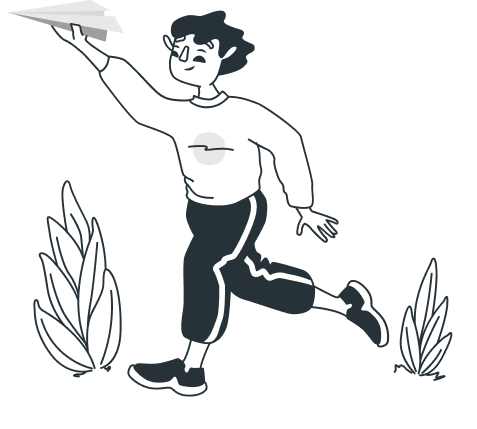
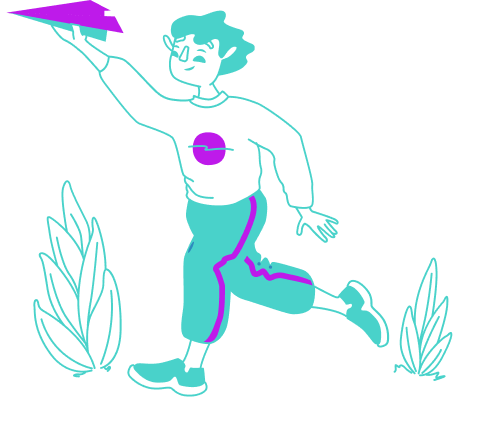
changed images and titles color

diff --git a/src/App.css b/src/App.css
@@ -85,7 +85,7 @@ body {
 	top: 1900px;
 	right: 0;
 }
-.App.dark .about__info span {
+.about__info span {
 	color: #BF17EA;
 }
 .App.dark header {
@@ -111,29 +111,49 @@ body {
 .App.dark .footer__logo {
 	color: white;
 }
-.Add.dark header button {
-	color: white;
-}
 .App.dark header .header__login,
 .App.dark header .header__theme {
     background-color: unset;
 }
-.App.dark h1 {
+ h1 {
     background: linear-gradient(106.52deg, #c213ea 0%, #4dddce 93.42%);
     -webkit-background-clip: text;
     -webkit-text-fill-color: transparent;
     background-clip: text;
 }
-.App.dark .banner__button,
-.App.dark .contact__form button,
-.App.dark .skills__item-button,
-.App.dark .form button,
-.App.dark .header__burger span,
-.App.dark .header__burger::after,
-.App.dark .header__burger::before {
+.banner__button,
+.contact__form button,
+.skills__item-button,
+.form__btn,
+.header__login {
     background: linear-gradient(93.94deg, #d40ef3 2.15%, #4cdccd 100%);
     box-shadow: 0px 4px 19px rgba(255, 255, 255, 0.3);
     border: unset;
+}
+.App.dark .header__burger span,
+.App.dark .header__burger::after,
+.App.dark .header__burger::before {
+	background: linear-gradient(93.94deg, #d40ef3 2.15%, #4cdccd 100%);
+    box-shadow: 0px 4px 19px rgba(255, 255, 255, 0.3);
+    border: unset;
+}
+.App.dark .banner__button,
+.App.dark .contact__form button,
+.App.dark .skills__item-button,
+.App.dark .form__btn,
+.App.dark .header__login,
+.App.dark .header__burger span,
+.App.dark .header__burger::after,
+.App.dark .header__burger::before {
+	box-shadow: 0px 4px 19px rgba(0, 0, 0, 0.555);
+}
+.App.dark .banner__button:hover,
+.App.dark .contact__form button:hover,
+.App.dark .skills__item-button:hover,
+.App.dark .form button:hover,
+.App.dark .header__login:hover,
+.App.dark .header__burger span:hover {
+	box-shadow: 0px 4px 19px rgba(255, 255, 255, 0.3);
 }
 .container {
     max-width: 1120px;

diff --git a/src/components/Banner/Banner.css b/src/components/Banner/Banner.css
@@ -12,7 +12,10 @@
 }
 .banner__title {
     font-weight: 600;
-    color: black;
+    background: linear-gradient(106.52deg, #c213ea 0%, #4dddce 93.42%);
+    -webkit-background-clip: text;
+    -webkit-text-fill-color: transparent;
+    background-clip: text;
     font-size: 64px;
     line-height: 80px;
     margin-bottom: 40px;
@@ -20,7 +23,7 @@
     text-align: left;
 }
 .banner__title::after {
-    content: url(../../assets/images/banner/banner-item.png);
+    content: url(../../assets/images/banner/banner-item-dark.png);
     position: absolute;
     top: 95px;
     right: 0;
@@ -33,10 +36,8 @@
 .banner__button {
     font-size: 36px;
     padding: 30px 100px;
-    background-color: rgb(1, 97, 240);
     border-radius: 15px;
     color: white;
-    border: 1px solid rgb(1, 97, 240);
     transition: all 0.3s;
 }
 
@@ -51,8 +52,7 @@
 
 @media (min-width: 769px) {
     .banner__button:hover {
-        color: rgb(1, 97, 240);
-        background-color: unset;
+        box-shadow: 0px 4px 19px rgba(0, 0, 0, 0.555);
     }
 }
 
@@ -62,7 +62,7 @@
 	}
     .title {
         font-size: 45px;
-        line-height: 50px;
+        line-height: 55px;
     }
     .banner__button {
         padding: 14px;

diff --git a/src/components/Header/Header.css b/src/components/Header/Header.css
@@ -2,7 +2,6 @@
     padding: 25px 0;
     color: #263238;
     margin-bottom: 50px;
-    background: rgb(227, 229, 253);
     box-shadow: 0px 1px 18px rgb(172, 172, 172);
 }
 .header__inner {
@@ -29,10 +28,8 @@
 }
 .header__login {
     padding: 5px 20px;
-    border: 1px solid rgb(1, 97, 240);
     color: white;
     border-radius: 8px;
-    background-color: rgb(1, 97, 240);
     cursor: pointer;
     transition: all 0.3s;
 }
@@ -99,8 +96,7 @@
 
 @media (min-width: 769px) {
     .header__login:hover {
-        color: rgb(1, 97, 240);
-        background-color: unset;
+        box-shadow: 0px 4px 19px rgba(0, 0, 0, 0.555);
     }
 }
 

diff --git a/src/components/Skills/Skills.css b/src/components/Skills/Skills.css
@@ -31,8 +31,6 @@
 .skills__item-button {
     padding: 7px 35px;
     color: white;
-    background-color: rgb(1, 97, 240);
-    border: 1px solid rgb(1, 97, 240);
     border-radius: 5px;
     transition: all 0.3s;
 }
@@ -55,8 +53,7 @@
 
 @media (min-width: 769px) {
     .skills__item-button:hover {
-        color: rgb(1, 97, 240);
-        background-color: unset;
+        box-shadow: 0px 4px 19px rgba(0, 0, 0, 0.555);
     }
     .skills__item:hover {
         transform: translateY(-15px);

diff --git a/src/components/Contact/Contact.css b/src/components/Contact/Contact.css
@@ -34,8 +34,6 @@
 .contact__form button {
     padding: 22px 60px;
     color: white;
-    background-color: rgb(1, 97, 240);
-    border: 1px solid rgb(1, 97, 240);
     border-radius: 10px;
     transition: all 0.3s;
 }
@@ -48,8 +46,7 @@
 
 @media (min-width: 769px) {
     .contact__form button:hover {
-        color: rgb(1, 97, 240);
-        background-color: unset;
+        box-shadow: 0px 4px 19px rgba(0, 0, 0, 0.555);
     }
 }
 

diff --git a/public/index.html b/public/index.html
@@ -24,7 +24,7 @@
       work correctly both with client-side routing and a non-root public URL.
       Learn how to configure a non-root public URL by running `npm run build`.
     -->
-    <title>React App</title>
+    <title>EngWay</title>
   </head>
   <body>
     <noscript>You need to enable JavaScript to run this app.</noscript>

diff --git a/src/components/LoginForm/LoginForm.css b/src/components/LoginForm/LoginForm.css
@@ -31,8 +31,6 @@
 .form__btn {
     margin: 0 auto;
     padding: 7px 30px;
-    background-color: rgb(1, 97, 240);
-    border: 1px solid rgb(1, 97, 240);
     border-radius: 8px;
     color: white;
     transition: all 0.3s;

diff --git a/src/components/About/About.css b/src/components/About/About.css
@@ -24,7 +24,7 @@
 	align-items: center;
 }
 .about__info span {
-	color: #2A3246;
+	color: #BF17EA;
 	font-weight: 600;
 	font-size: 48px;
 	margin-bottom: 20px;
